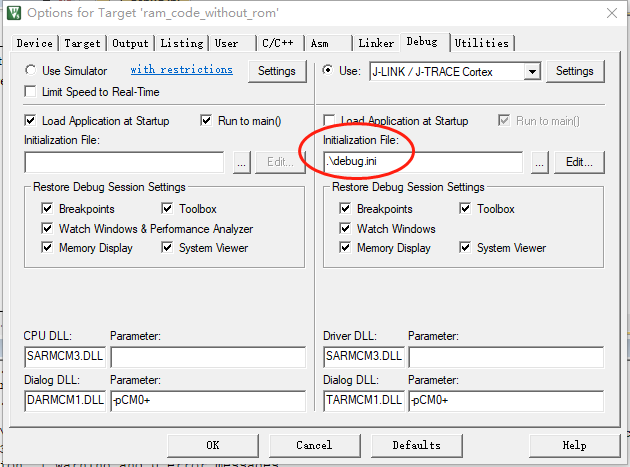
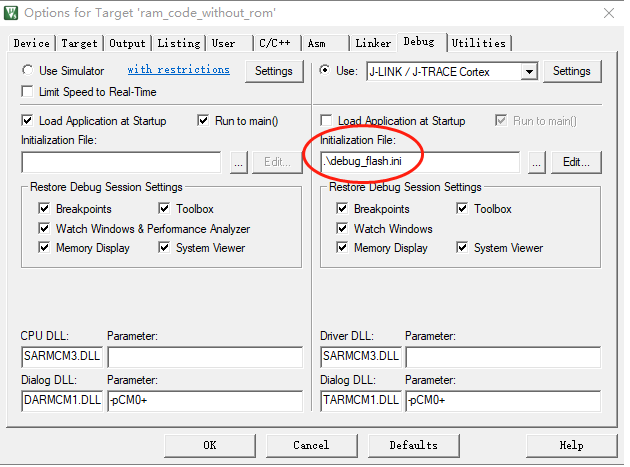
Update debug_flash.ini

diff --git a/getting_started/debug_env_and_tools.rst b/getting_started/debug_env_and_tools.rst
@@ -3,31 +3,21 @@ Debug Environment and Tools
 
 BX2400使用Keil作为调试环境，辅以Segger RTT的方式log输出，在出错时通过HardFault中断进行错误定位。
 
-1. DEBUG环境/debug.ini
+1. DEBUG环境/debug_flash.ini
 
    用户的DEBUG环境为Keil MDK：
 
    .. image:: debug_env_and_tools_img1.png
 
-   在工程配置选项里，有个debug.ini需要注意：
+   在工程配置选项里，有个debug_flash.ini需要注意：
 
    .. image:: debug_env_and_tools_img2.png
 
-   debug.ini文件是在Keil在debug时的配置文件，Keil会根据debug.ini的内容决定如果下载可执行文件，以及后续的动作。debug.ini的内容是：
-
-      LOAD .\Objects\BX2400.axf
-
-      SP = _RDWORD(0x00100000);
-
-      PC = _RDWORD(0x00100004);
-
-   可以看到debug.ini会告诉Keil去下载BX2400.axf文件到开发板，完成后从地址0x100000里取值到SP中，再从0x100004中取值到PC中。所以可以看出，debug.ini模式下，Keil会下载可执行文件到开发板，并直接改变SP和PC的值，而忽略了从Flash中启动的流程。再看另一个debug_flash.ini文件：
-
+   debug_flash.ini文件是在Keil在debug时的配置文件，Keil会根据debug_flash.ini的内容决定如果下载可执行文件，以及后续的动作。debug_flash.ini的内容是：
+   
       LOAD .\Objects\BX2400.axf NOCODE
 
-   这里只有下载可执行文件的指令，且有NOCODE标志，表示只是将将调试信息装载进来，但并不下载任何实质性的数据/指令到开发板，这种调试模式对应Flash已经有了可执行应用程序的情况，用户程序会从Flash启动开始走完整的流程。
-
-   根据用户开发不同阶段的不同需求，可以选择不同的ini文件。关于RAM运行和Flash运行的区别，可以参考文档Link script/Keil SDK config. 
+   可以看到debug_flash.ini下载可执行文件的指令，且有NOCODE标志，表示只是将将调试信息装载进来，但并不下载任何实质性的数据/指令到开发板，这种调试模式运行的前提，是用户需要事先将生成的hex/bin文件烧写入Flash中，之后用户程序会从Flash启动开始走完整的流程。
 
 #. Keil调试环境
 
